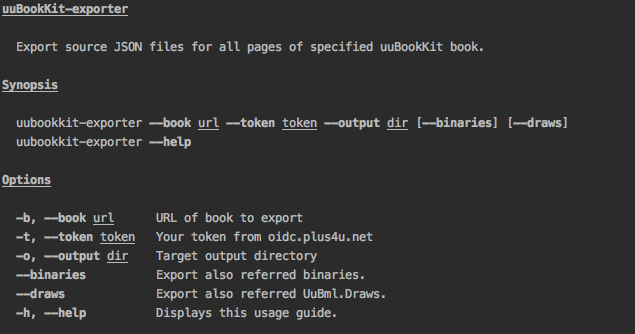
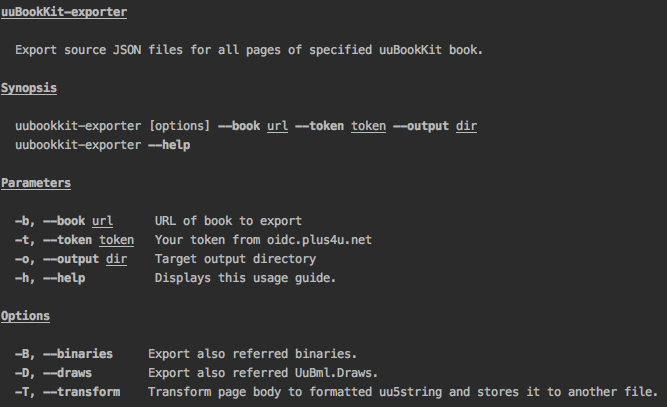
Added possibility to transform page content to formatted uu5string in another file. Added export-result.json with basic information about export.

diff --git a/export.js b/export.js
@@ -26,8 +26,12 @@ const defaultOptions = {
   /**
    * Exports all Binaries used in book content.
    */
-  exportBinaries: false
-}
+  exportBinaries: false,
+  /**
+   * Transforms page body to formatted uu5string and stores it to another file.
+   */
+  transformBody: false
+};
 
 /**
  * Exports book source to specified directory.
@@ -44,6 +48,13 @@ async function exportBook(book, token, outputDir, options) {
   };
   logger.info(`Going to export book ${book}`);
   logger.info(`Using options : ${JSON.stringify(options)}`);
+
+  let exportDescriptor = {
+    book,
+    options: options,
+    exportStart: new Date(),
+    stats: {}
+  };
 
   let bookuri = UriBuilder.parse(book).clearParameters().setUseCase("").toUri();
   await mkdirp(outputDir);
@@ -64,18 +75,40 @@ async function exportBook(book, token, outputDir, options) {
   let otherResources = {
     binaries: new Set([]),
     draws: new Set([])
-  }
+  };
+  let pagesStats = {
+    exported: 0,
+    error: 0
+  };
   for (const page of pages) {
     const pageDataResponse = await AppClient.get(bookuri.toString() + "/loadPage", {code: page.code}, httpOptions);
     const pageData = pageDataResponse.data;
     _analyzePage(pageData, otherResources, options);
     const fileName = `${page.code}.json`;
     await writefile(path.join(pagesDir, fileName), JSON.stringify(pageData, null, 2), "utf8");
+    if (options.transformBody) {
+      let body = pageData.body;
+      if (!Array.isArray(body)) {
+        body = [body];
+      }
+      let transformedBody = body
+      .map(part => part.startsWith("<uu5string/>") ? part.substring("<uu5string/>".length) : part)
+      .join("\n\n<div hidden>Part end(uu5string does not support comments)</div>\n\n");
+      transformedBody = "<uu5string/>\n" + transformedBody;
+      await writefile(path.join(pagesDir, `${page.code}.uu5`), transformedBody, "utf8");
+      pagesStats.exported++;
+    }
   }
+  exportDescriptor.stats.pages = pagesStats;
+  exportDescriptor.stats.draws = await _downloadUuBmlDraws(outputDir, otherResources.draws, httpOptions);
+  exportDescriptor.stats.binaries = await _downloadBinaries(outputDir, otherResources.binaries, bookuri, httpOptions);
 
-  await _downloadUuBmlDraws(outputDir, otherResources.draws, httpOptions);
-  await _downloadBinaries(outputDir, otherResources.binaries, bookuri, httpOptions);
+  exportDescriptor.exportEnd = new Date();
+  exportDescriptor.stats.duration = exportDescriptor.exportEnd - exportDescriptor.exportStart;
 
+  await writefile(path.join(outputDir, "export-result.json"), JSON.stringify(exportDescriptor, null, 2), "utf8");
+  logger.info("Export has been finished. See export statistics bellow.");
+  console.log(JSON.stringify(exportDescriptor, null, 2));
 }
 
 /**
@@ -87,16 +120,23 @@ async function exportBook(book, token, outputDir, options) {
  * @private
  */
 _downloadUuBmlDraws = async function _downloadUuBmlDraws(outputDir, draws, httpOptions) {
+  let stats = {
+    exported: 0,
+    error: 0
+  };
   let drawsDir = path.join(outputDir, "draws");
   await mkdirp(drawsDir);
   for (let draw of draws) {
     try {
       logger.info(`Downloading UuBmlDraw ${draw}.`);
       await downloadUuBmlDraw(draw, httpOptions, drawsDir);
+      stats.exported++;
     } catch (e) {
+      stats.error++;
       logger.error(`UuBmlDraw ${draw} cannot be downloaded.`, e);
     }
   }
+  return stats;
 }
 
 /**
@@ -109,6 +149,11 @@ _downloadUuBmlDraws = async function _downloadUuBmlDraws(outputDir, draws, httpO
  * @private
  */
 _downloadBinaries = async function _downloadBinaries(outputDir, binaries, bookuri, httpOptions) {
+  let stats = {
+    exported: 0,
+    notFound: 0,
+    error: 0
+  };
   let binariesDir = path.join(outputDir, "binaries");
   await mkdirp(binariesDir);
   for (let binary of binaries) {
@@ -118,14 +163,18 @@ _downloadBinaries = async function _downloadBinaries(outputDir, binaries, bookur
       let response = await AppClient.get(uri, null, httpOptions);
       let binaryPath = path.join(binariesDir, binary);
       await response.data.pipe(fs.createWriteStream(binaryPath));
+      stats.exported++;
     } catch (e) {
       if (e.code === "uu-app-binarystore/uuBinaryGetBinaryData/uuBinaryDoesNotExist") {
+        stats.notFound++;
         logger.warn(`Binary ${binary} does not exist.`);
       } else {
+        stats.error++;
         logger.error(`Binary ${binary} cannot be downloaded.`, e);
       }
     }
   }
+  return stats;
 }
 
 function _processNode(node, ctx, options) {

diff --git a/bin/cmd.js b/bin/cmd.js
@@ -4,7 +4,8 @@ let exportBook = require("../export");
 const commandLineArgs = require("command-line-args");
 const commandLineUsage = require("command-line-usage")
 
-const optionDefinitions = [
+
+const parametersdefinitions =[
   {
     name: "book",
     alias: "b",
@@ -27,22 +28,36 @@ const optionDefinitions = [
     description: "Target output directory"
   },
   {
+    name: "help",
+    alias: "h",
+    type: Boolean,
+    description: "Displays this usage guide."
+  }
+];
+
+const optionDefinitions = [
+  {
     name: "binaries",
+    alias: "B",
     type: Boolean,
     description: "Export also referred binaries."
   },
   {
     name: "draws",
+    alias: "D",
     type: Boolean,
     description: "Export also referred UuBml.Draws."
   },
-
   {
-    name: "help",
-    alias: "h",
+    name: "transform",
+    alias: "T",
     type: Boolean,
-    description: "Displays this usage guide."
-  },
+    description: "Transform page body to formatted uu5string and stores it to another file."
+  }
+];
+const cliDefinition = [
+  ...parametersdefinitions,
+  ...optionDefinitions
 ];
 const sections = [
   {
@@ -52,9 +67,13 @@ const sections = [
   {
     header: "Synopsis",
     content: [
-      "uubookkit-exporter {bold --book} {underline url} {bold --token} {underline token} {bold --output} {underline dir} [{bold --binaries}] [{bold --draws}]",
+      "uubookkit-exporter [options] {bold --book} {underline url} {bold --token} {underline token} {bold --output} {underline dir}",
       "uubookkit-exporter {bold --help}"
     ]
+  },
+  {
+    header: "Parameters",
+    optionList: parametersdefinitions
   },
   {
     header: "Options",
@@ -62,7 +81,7 @@ const sections = [
   }
 ];
 const usage = commandLineUsage(sections);
-const options = commandLineArgs(optionDefinitions);
+const options = commandLineArgs(cliDefinition);
 
 const valid = options.help || (options.book && options.token && options.output);
 if (!valid || options.help) {
@@ -72,6 +91,7 @@ if (!valid || options.help) {
 
 let exportOptions = {
   exportBinaries: Boolean(options.binaries),
-  exportDraws: Boolean(options.draws)
+  exportDraws: Boolean(options.draws),
+  transformBody: Boolean(options.transform)
 }
 exportBook(options.book, options.token, options.output, exportOptions);

diff --git a/doc/CHANGELOG.md b/doc/CHANGELOG.md
@@ -1,3 +1,8 @@
+0.3.1
+-----
+* Added possibility to transform page content to formatted uu5string in another file.
+* Added export-result.json with basic information about export.
+
 0.3.0
 -----
 * Added possibility to export referred Binaries and UuBml.Draws.
